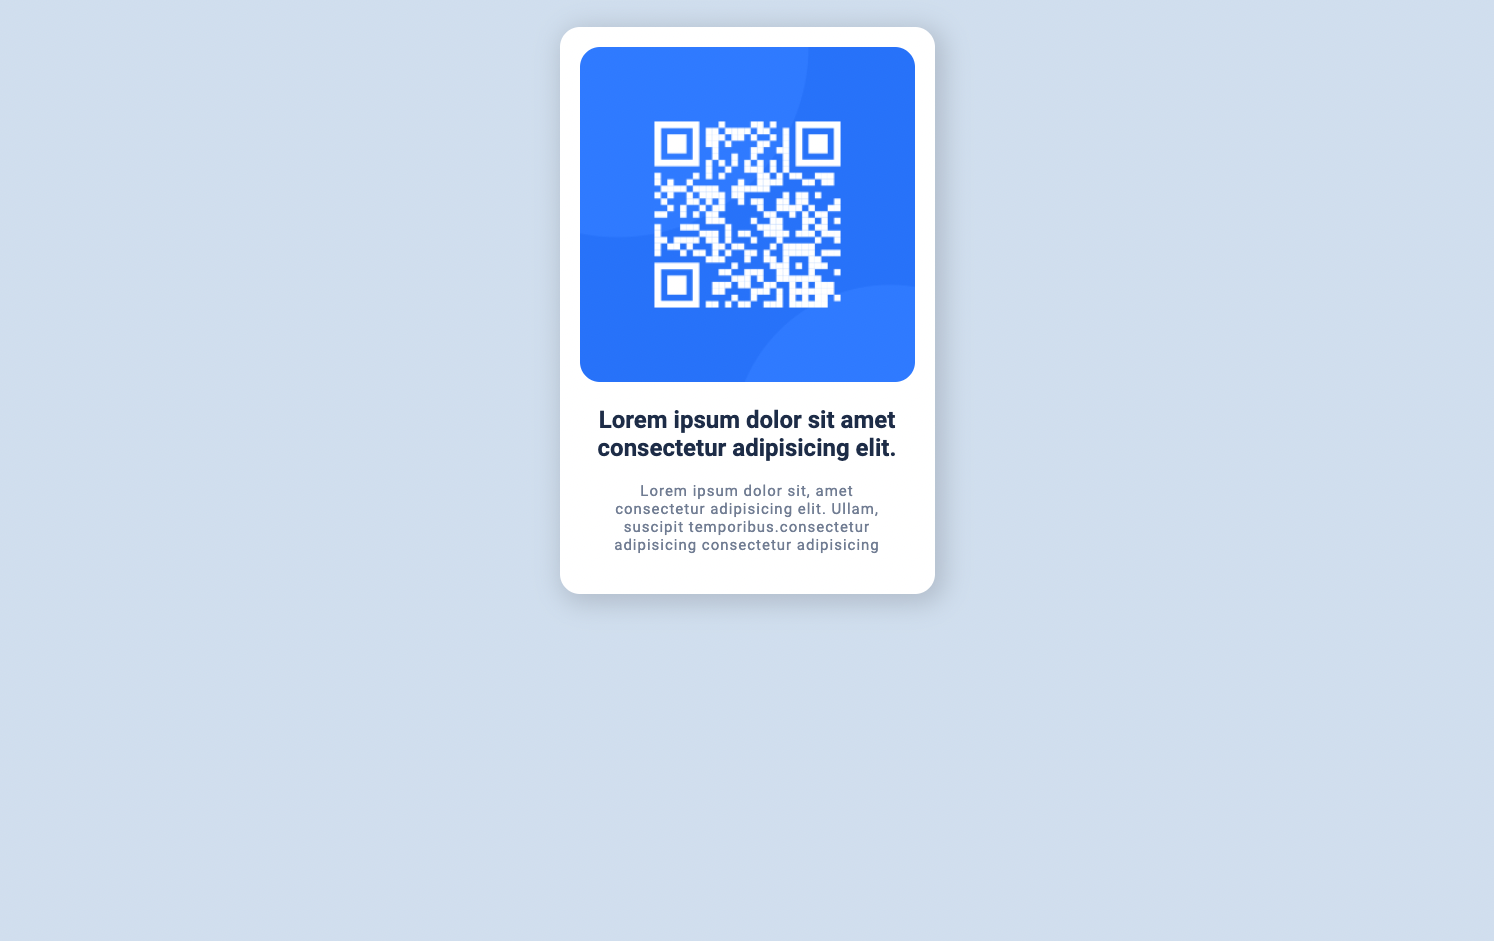
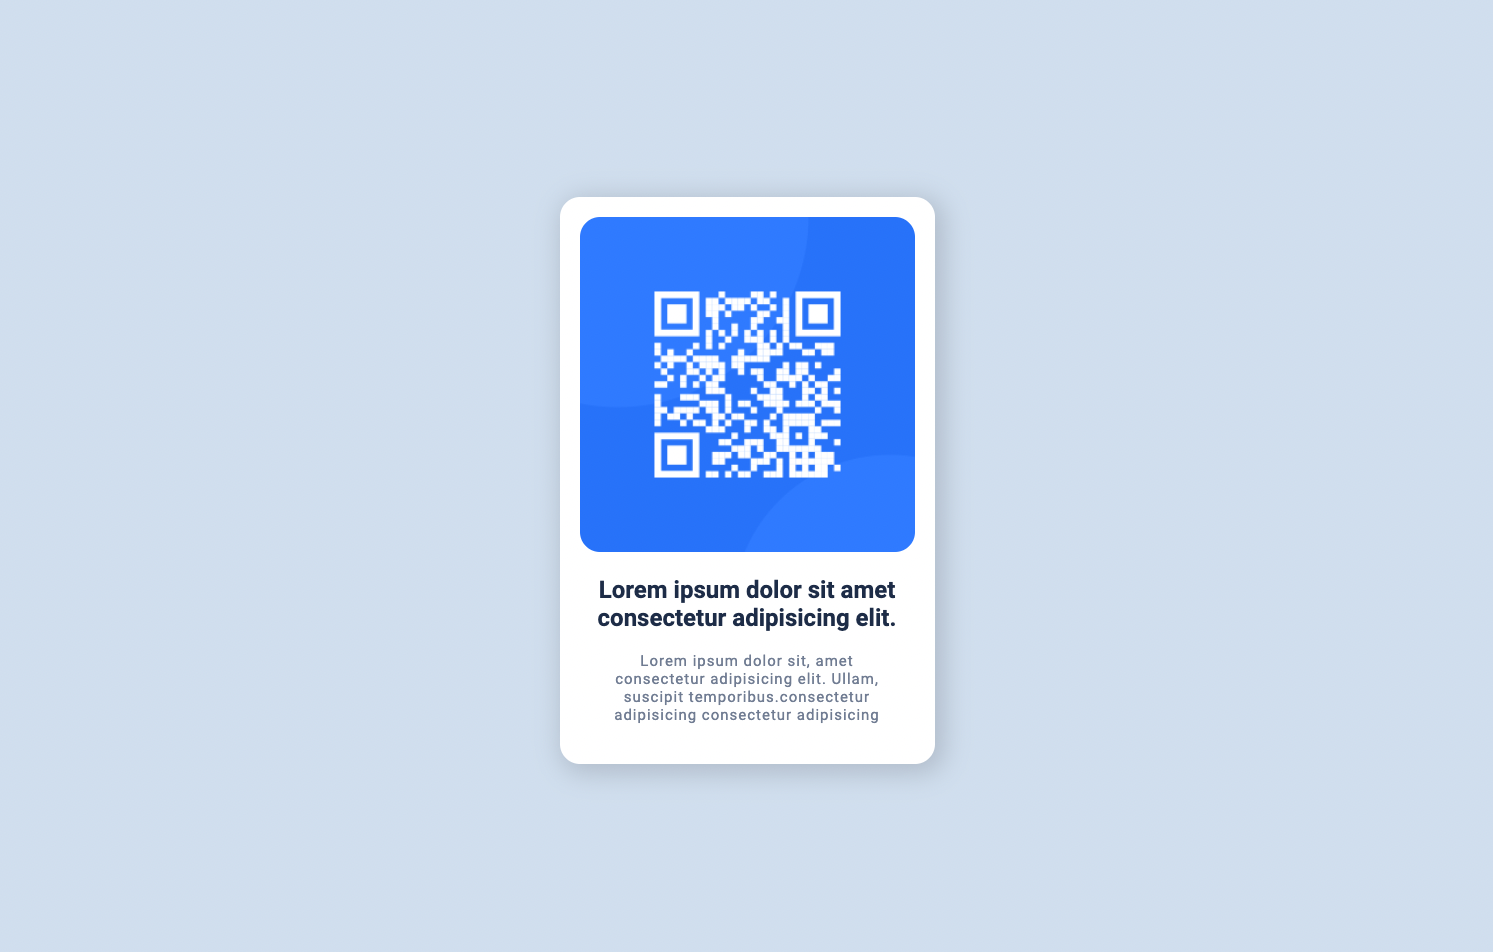
fix : 讓卡片置中

Changed region(s): [[0.3697, 0.0308, 0.647, 0.5855], [0.3697, 0.6164, 0.647, 0.8321]]

diff --git a/01-qr-code-component-main/style.css b/01-qr-code-component-main/style.css
@@ -14,11 +14,14 @@
 body {
   font-family: 'Roboto', sans-serif;
   background-color: var(--lightgray);
+  min-height: 100vh;
+  display: flex;
+  align-items: center;
 }
 .container {
   width: auto;
   max-width: 375px;
-  margin: 30px auto;
+  margin: 0 auto;
   padding: 20px;
   text-align: center;
   border-radius: 20px;
